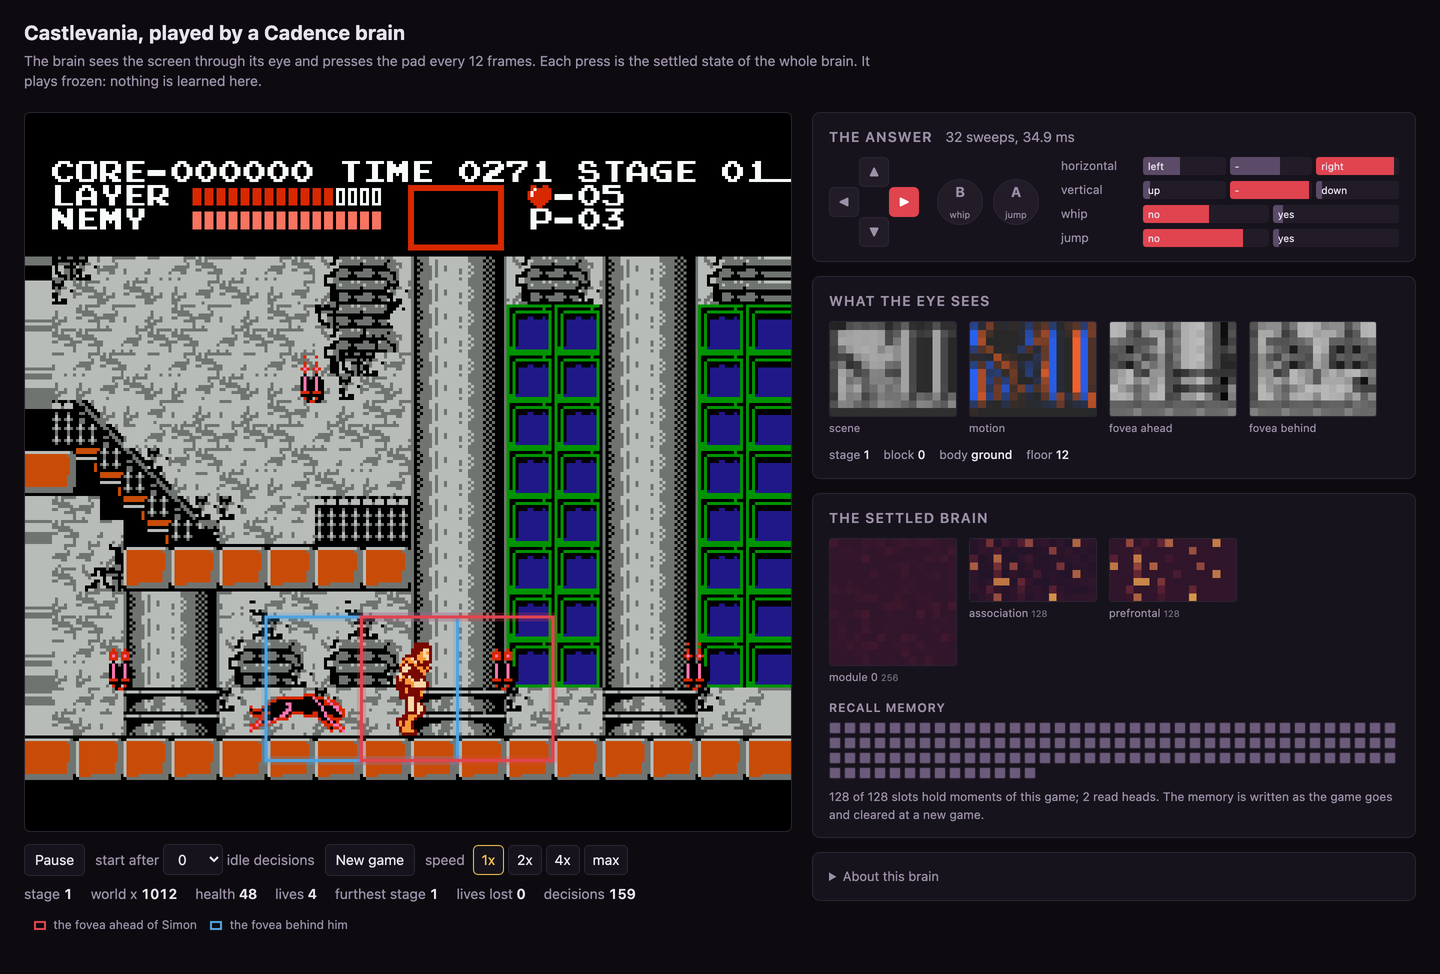
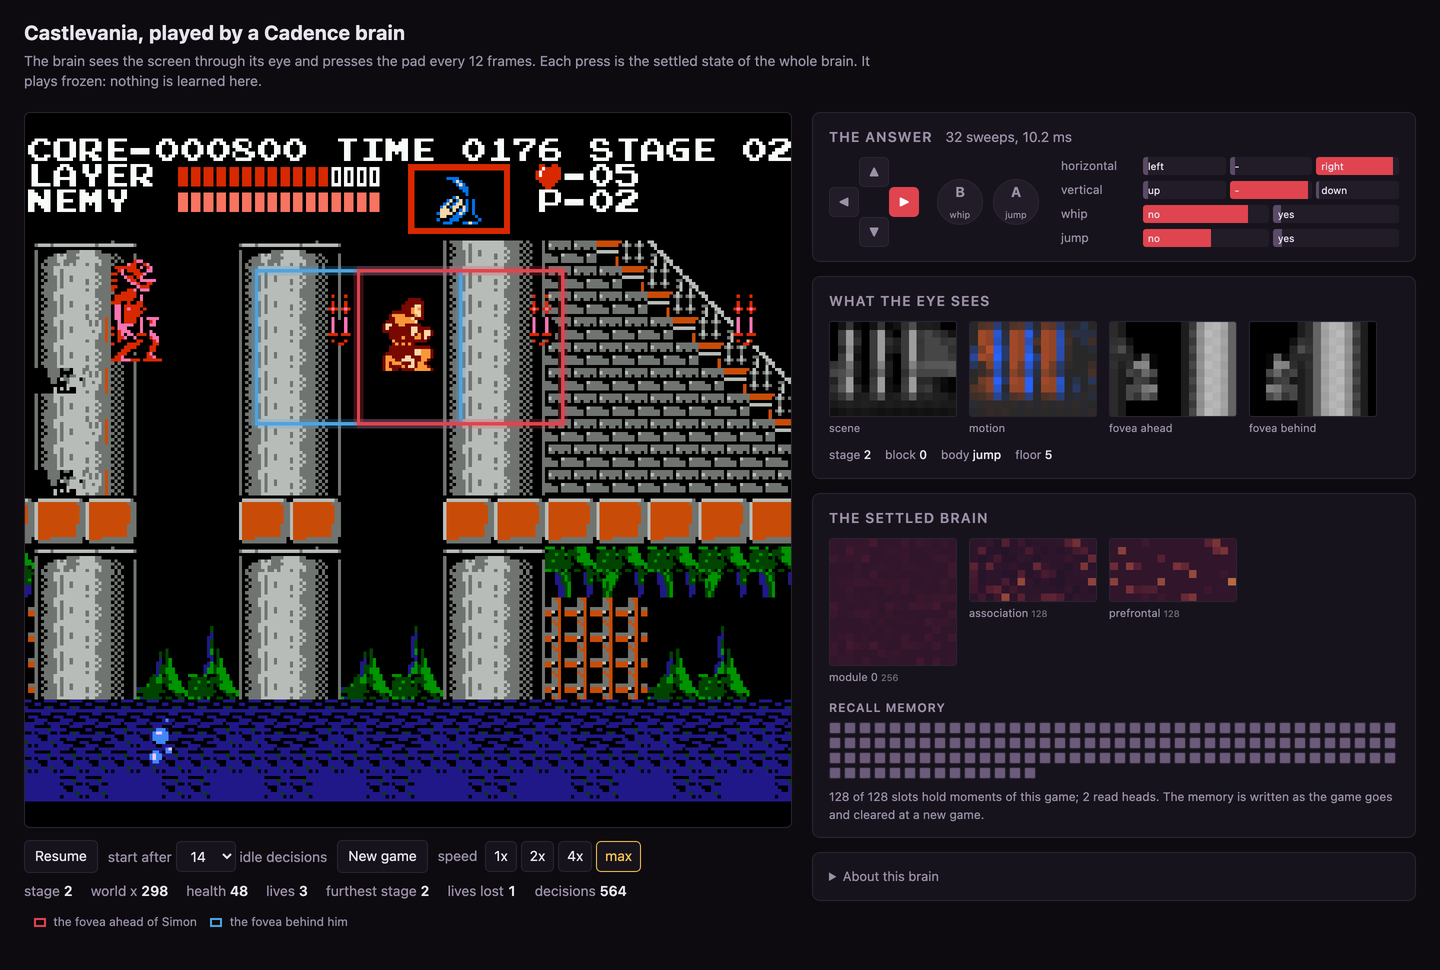
Castlevania: a screenshot of the brain crossing the underground; restart race fixed
A restart posted while the console powered on was dropped, so the page
could play start 0 under another start's label. Frozen play records the
reach per block for evaluation, and the page shows the server's speed and
idle state.

diff --git a/castlevania/web/app.js b/castlevania/web/app.js
@@ -88,6 +88,8 @@ function draw(s) {
   const r = s.run || {};
   const g = b.game || {};
   $("pause").textContent = s.paused ? "Resume" : "Pause";
+  document.querySelectorAll("[data-speed]").forEach((x) => x.classList.toggle("on", Number(x.dataset.speed) === s.speed));
+  if (r.idle !== undefined && document.activeElement !== $("idle")) $("idle").value = String(r.idle);
   $("stats").innerHTML = [
     ["stage", g.stage ?? "-"], ["world x", g.world_x ?? "-"], ["health", g.health ?? "-"], ["lives", g.lives ?? "-"],
     ["furthest stage", r.furthest_stage ?? "-"], ["lives lost", r.lives_lost ?? 0], ["decisions", b.decisions ?? 0],

diff --git a/castlevania/server.py b/castlevania/server.py
@@ -58,13 +58,15 @@ class Game(threading.Thread):
             self.idle, self.restart_requested = int(idle), True
 
     def _new_game(self) -> None:
-        frame, ram = self.console.power_on(self.idle)
+        with self.lock:  # take the request: a restart posted from here on starts another game
+            idle, self.restart_requested = self.idle, False
+        frame, ram = self.console.power_on(idle)
         self.player.new_game()
         r = self.console.readings()
-        self.stats = {"idle": self.idle, "furthest_stage": r["stage"], "best_world_x": r["world_x"],
-                    "lives_lost": 0, "lives": r["lives"], "started": time.time(), "over": False}
+        self.stats = {"idle": idle, "furthest_stage": r["stage"], "lives_lost": 0, "lives": r["lives"],
+                      "started": time.time(), "over": False}
         with self.lock:
-            self.frame, self.restart_requested = frame, False
+            self.frame = frame
         self.ram = ram
 
     def run_loop(self) -> None:
@@ -94,11 +96,8 @@ class Game(threading.Thread):
             if r["lives"] < self.stats["lives"]:
                 self.stats["lives_lost"] += 1
             self.stats["lives"] = r["lives"]
-            if r["stage"] != 20 and r["stage"] >= self.stats["furthest_stage"]:
-                if r["stage"] > self.stats["furthest_stage"]:
-                    self.stats["best_world_x"] = 0
+            if r["stage"] != 20 and r["stage"] > self.stats["furthest_stage"]:
                 self.stats["furthest_stage"] = r["stage"]
-                self.stats["best_world_x"] = max(self.stats["best_world_x"], r["world_x"])
             if done or r["lives"] == 0:
                 self.stats["over"] = True
             with self.lock:

diff --git a/castlevania/training/common.py b/castlevania/training/common.py
@@ -186,6 +186,7 @@ def frozen_play(brain: Brain, body: Body, noops: int, decisions: int, *, eye: st
     brain.reset()
     frame, ram = body.power_on(noops)
     sensor, progress = make_sensor(eye), Progress()
+    max_wx: dict[str, int] = {}  # the furthest world x per stage.block, on living frames
     step = 0
     for step in range(decisions):
         x = sensor.observe(frame, ram)[None, :]
@@ -197,13 +198,18 @@ def frozen_play(brain: Brain, body: Body, noops: int, decisions: int, *, eye: st
         before = readings(ram)
         frame, ram, done = body.step(action)
         progress.update(before, readings(ram), ram, step)
+        p = place(ram)
+        if p["lives"] == before["lives"] and p["health"] > 0 and p["stage"] != 20 and abs(p["wx"]) < 4000:
+            key = f'{p["stage"]}.{p["block"]}'
+            max_wx[key] = max(max_wx.get(key, -1), p["wx"])
         if done:
             break
     return {"noops": noops, "decisions": step + 1, "progress": progress.best,
             "furthest_stage": progress.furthest, "lives_lost": progress.lives_lost,
             "score": readings(ram)["score"], "first_stage": progress.first_stage,
             "world_x": progress.world_x, "deaths_by_stage": progress.deaths_by_stage,
-            "bat_hp_dealt": progress.bat_hp_dealt, "passed_stairs": progress.furthest >= 2}
+            "bat_hp_dealt": progress.bat_hp_dealt, "passed_stairs": progress.furthest >= 2,
+            "max_wx": max_wx}
 
 
 def frozen_evaluation(brain: Brain, body: Body, starts, decisions: int, *, eye: str = DEFAULT_EYE) -> dict:

diff --git a/castlevania/README.md b/castlevania/README.md
@@ -6,7 +6,7 @@ pad: left or right, up or down, whip, jump. The page shows the game beside what 
 the settled regions, the answer per slot and the recall memory filling as the game goes. The
 brain plays frozen; nothing is learned while you watch.
 
-![The brain in the castle hall, beside its eye, its settled regions and its answer](docs/castlevania.png)
+![The brain jumping across the stage-2 underground, beside its eye, its settled regions and its answer](docs/castlevania.png)
 
 Runs on `cadence-net==0.95.2` and `stable-retro==1.0.1`. The game is not included: you need your
 own dump of the cartridge.
